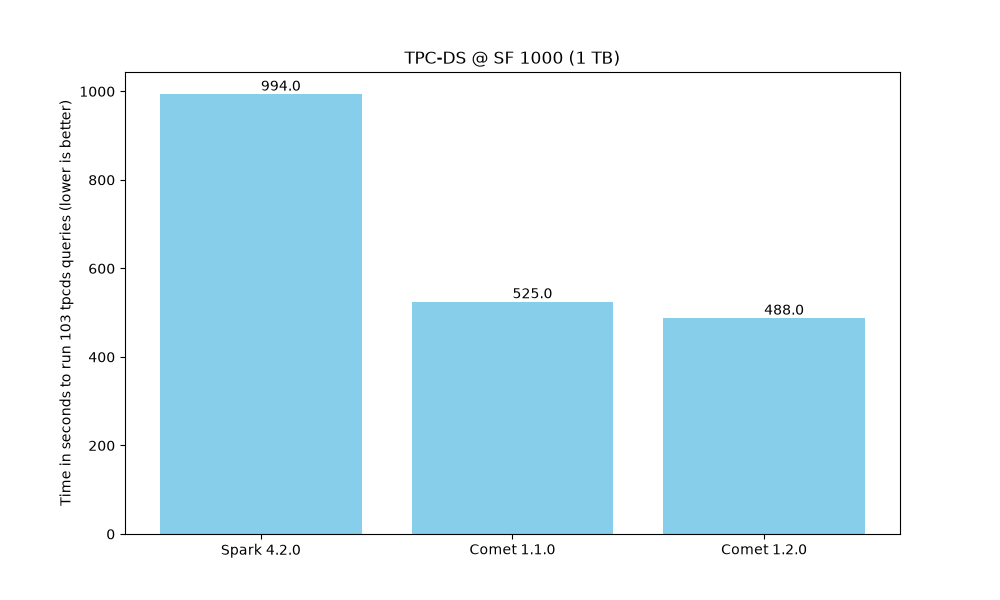
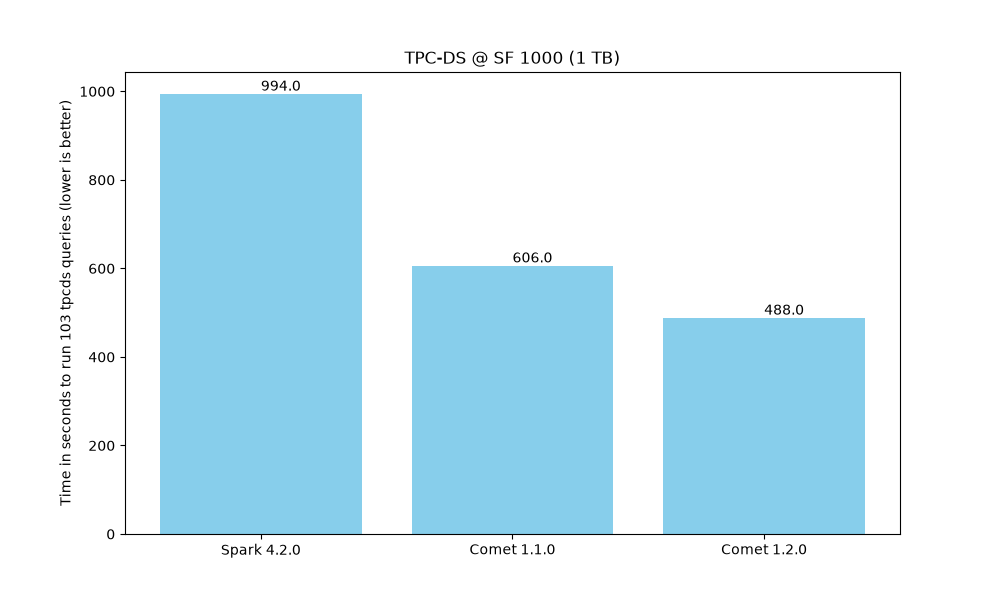
docs: use the Comet 1.1.0 release run on Spark 4.2.0

Changed region(s): [[0.403, 0.42, 0.62, 0.51]]

diff --git a/docs/source/contributor-guide/benchmark-results/tpc-ds.md b/docs/source/contributor-guide/benchmark-results/tpc-ds.md
@@ -22,10 +22,9 @@ under the License.
 The following benchmarks were performed on an EKS cluster (`r6i` instances with EBS storage) with data stored in S3,
 using Apache Spark 4.2.0 (Scala 2.13), Comet 1.1.0 and Comet 1.2.0. The tables are Parquet files compressed with zstd at
 scale factor 1000 (1 TB), and all three runs read the same files. Each query was run twice and the mean time is reported.
-The Comet 1.1.0 results are from a build of the 1.1 release branch.
 
-Across all 103 queries, Comet 1.2.0 finished in 488 seconds, Comet 1.1.0 in 525 seconds and Spark in 994 seconds,
-so Comet 1.2.0 is 2.0x faster than Spark.
+Across all 103 queries, Comet 1.2.0 finished in 488 seconds, Comet 1.1.0 in 606 seconds and Spark in 994 seconds,
+so Comet 1.2.0 is 2.0x faster than Spark and 1.2x faster than Comet 1.1.0.
 
 ## Benchmark Results
 
@@ -47,7 +46,7 @@ How much Comet 1.2.0 accelerates each query over Spark in absolute terms.
 
 ## Spark 4.1.3
 
-The same tables and settings were also run with Apache Spark 4.1.3 (Scala 2.13). Comet 1.1.0 here is the 1.1.0 release.
+The same tables and settings were also run with Apache Spark 4.1.3 (Scala 2.13).
 
 | | Total time (103 queries) | Speedup over Spark |
 |---|---|---|
